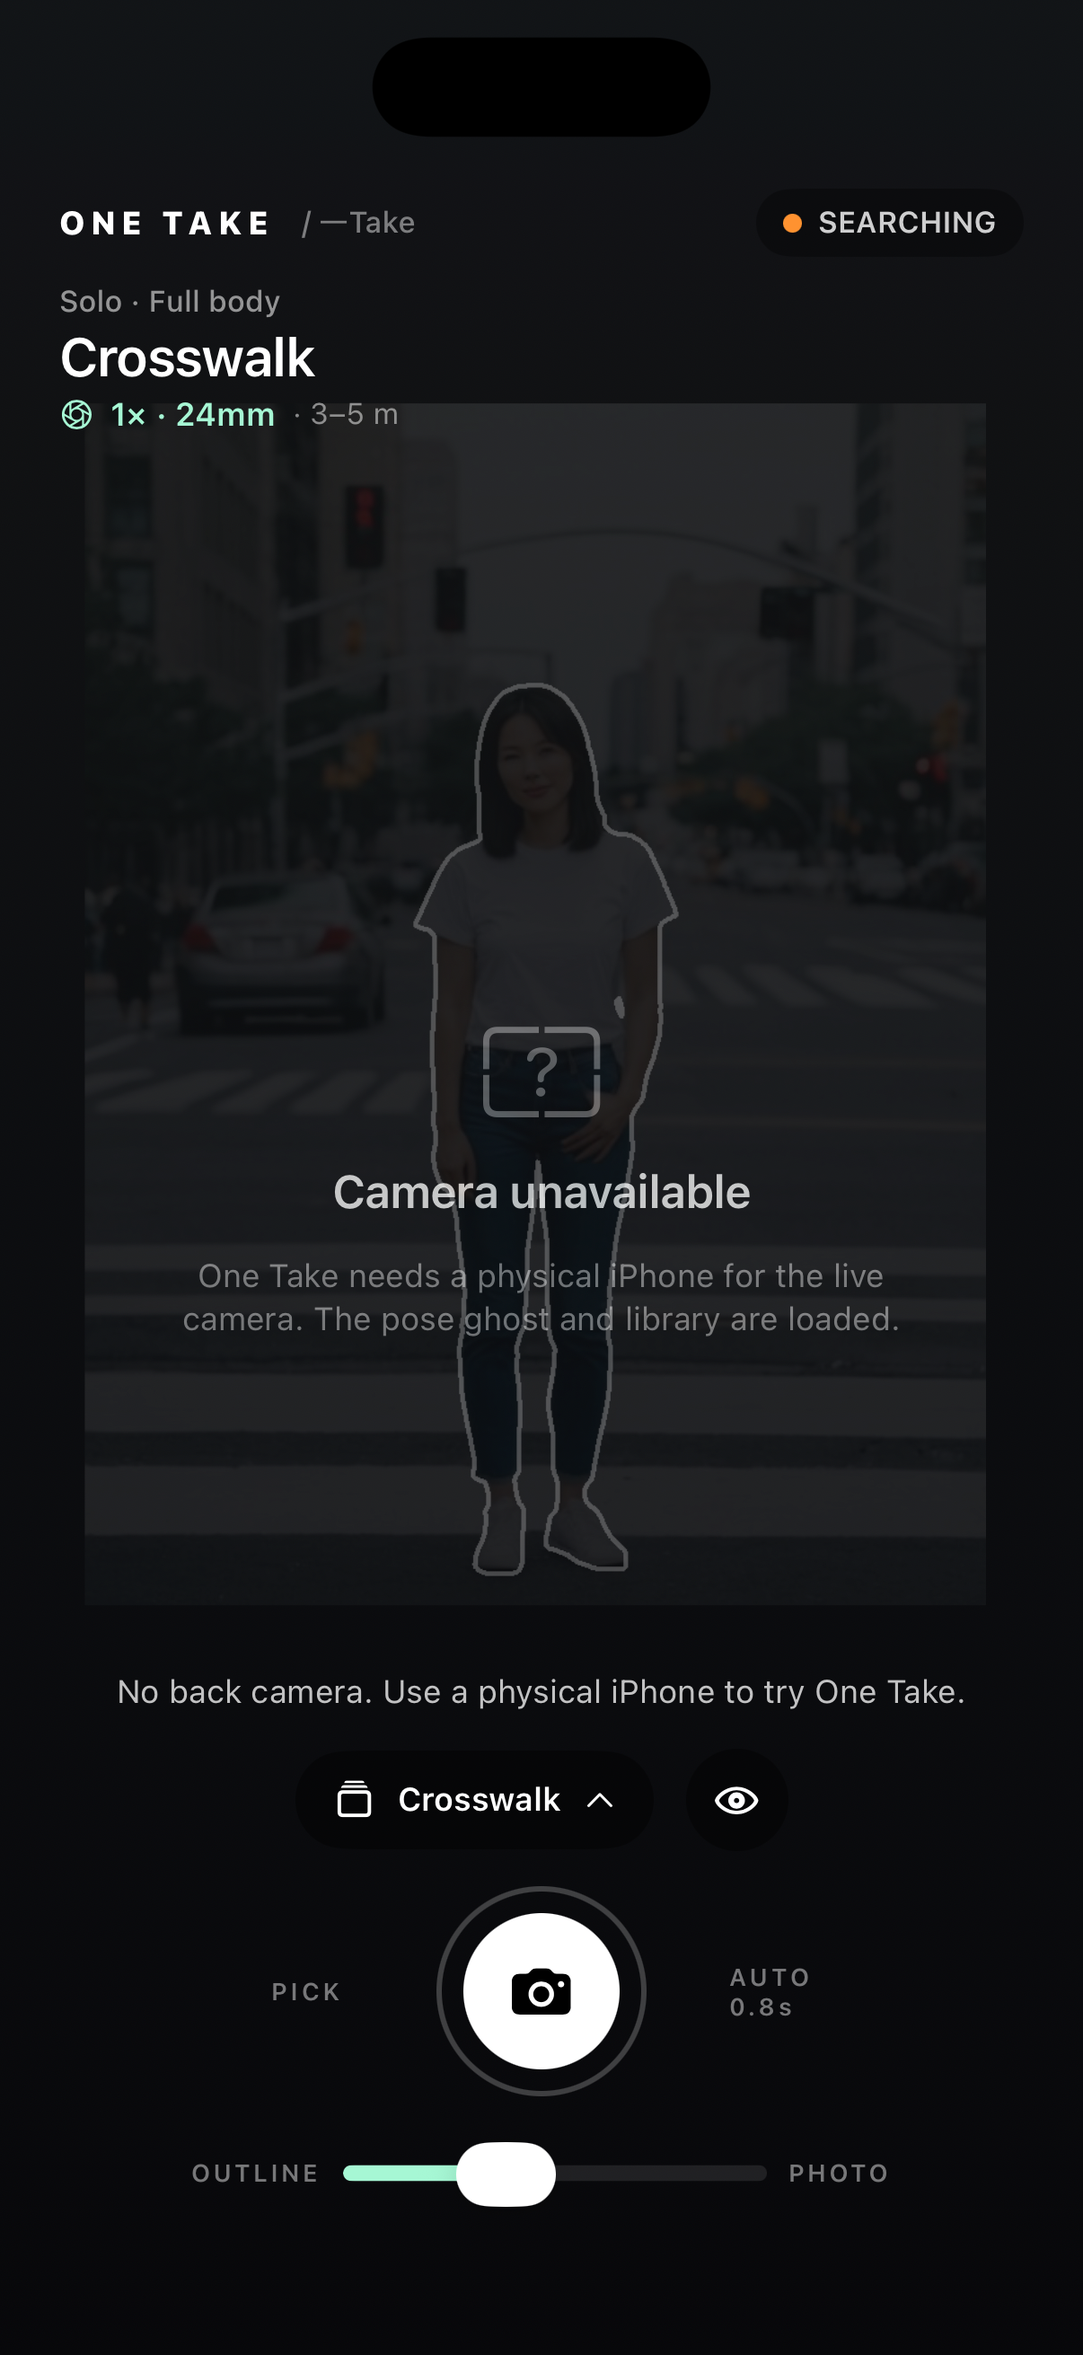
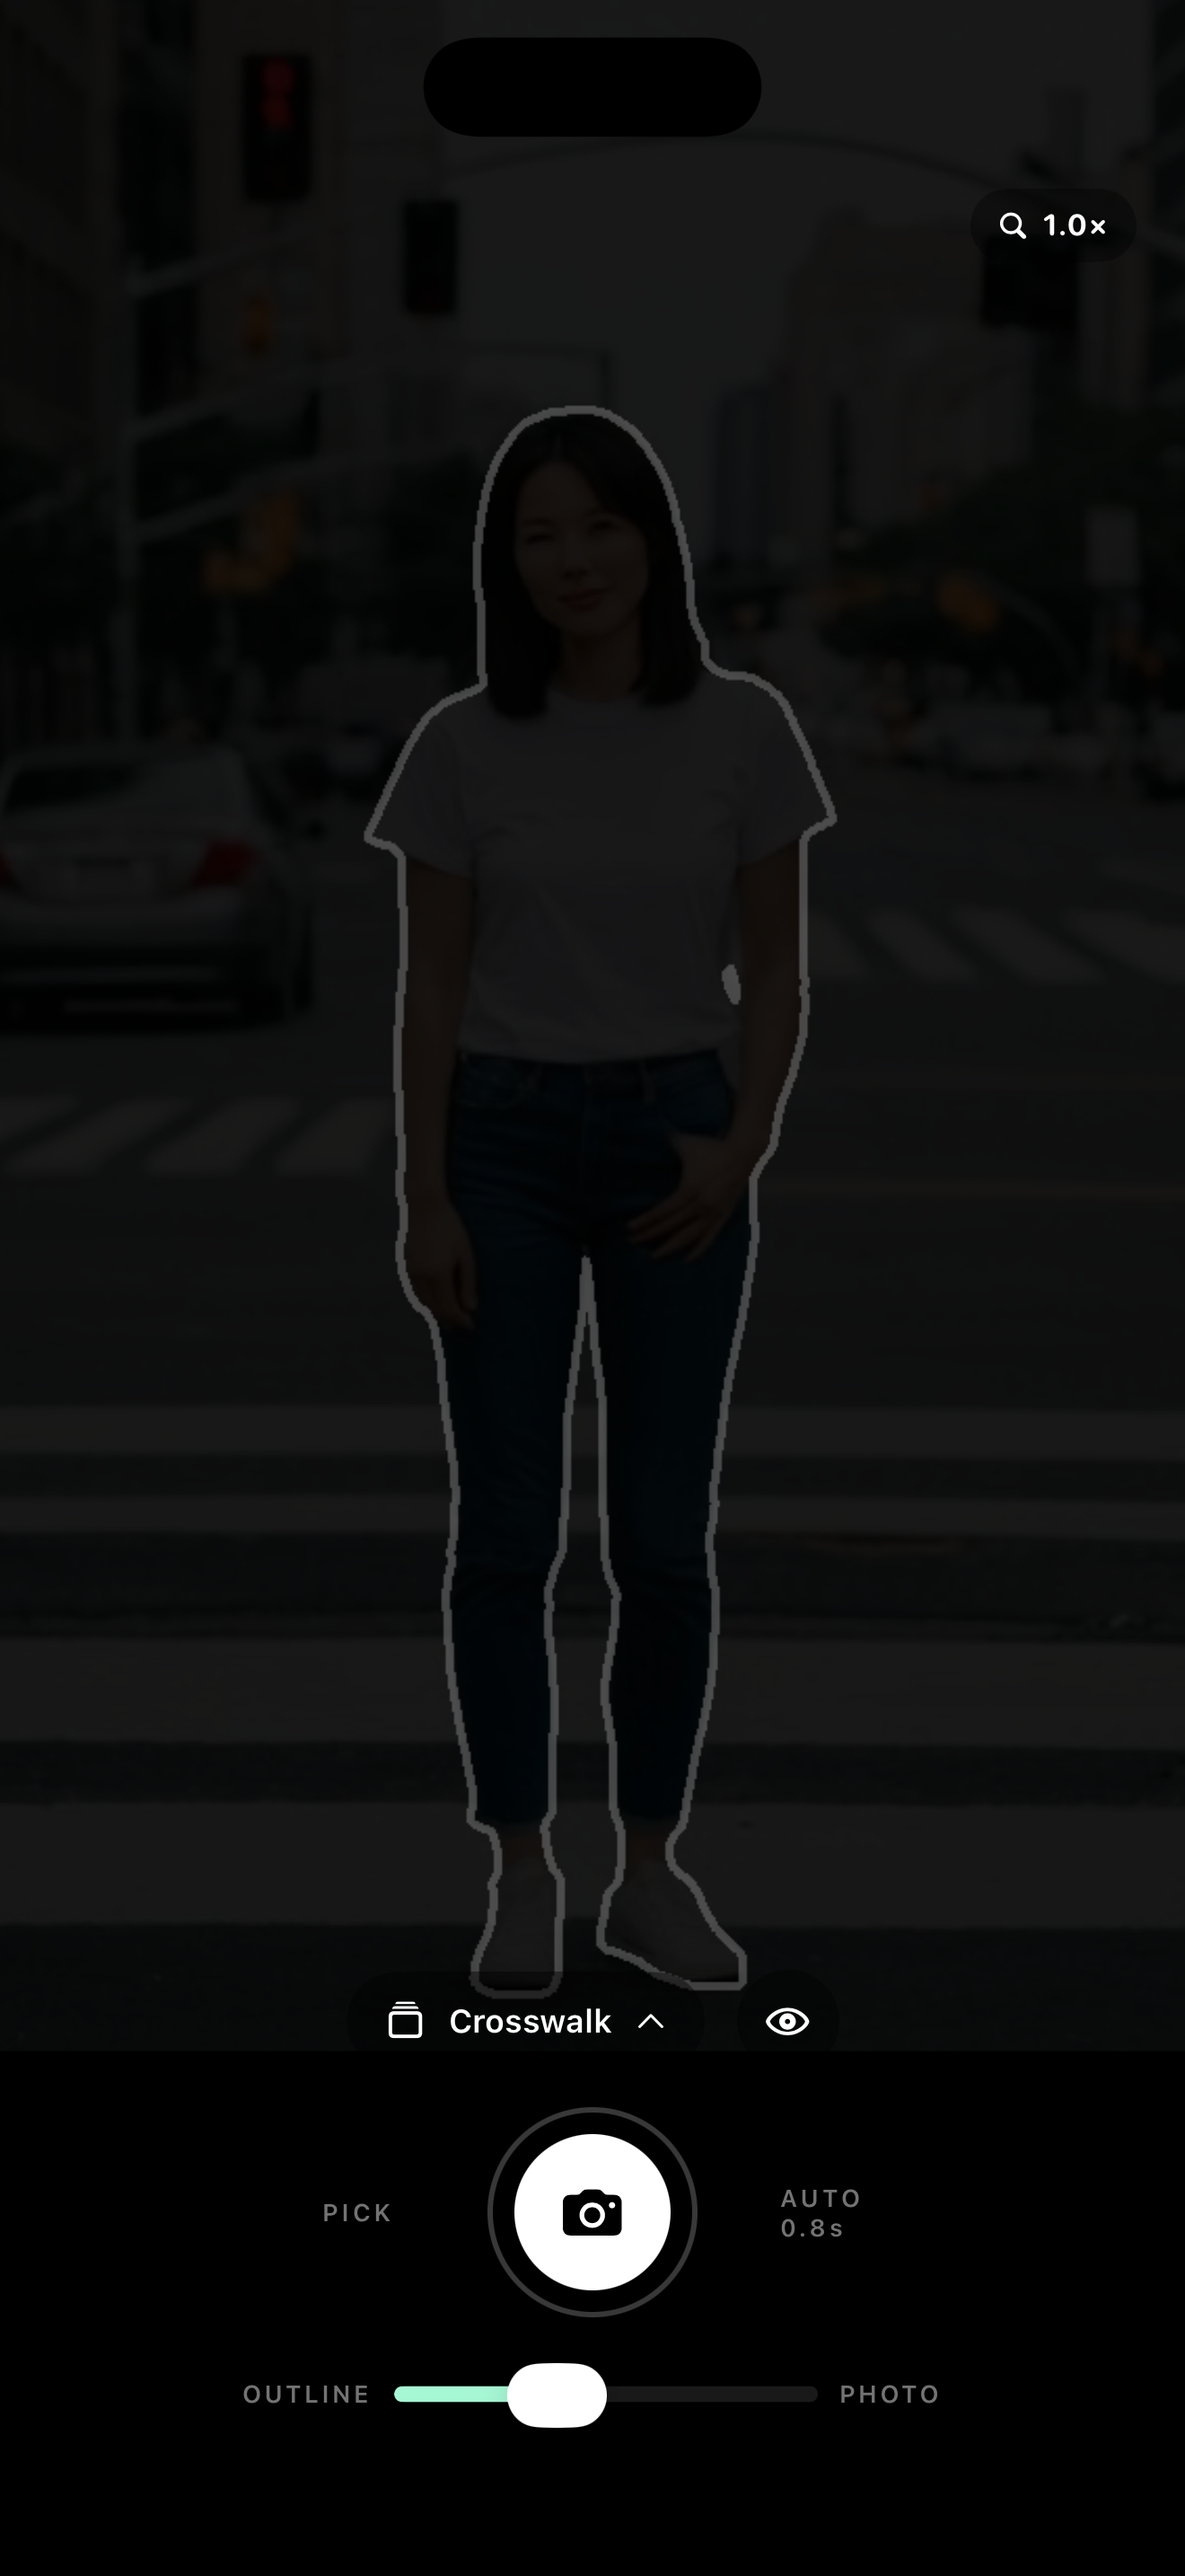
Update site with full-bleed camera and photo picker

diff --git a/index.html b/index.html
@@ -54,8 +54,8 @@ section{padding:56px 0;border-top:1px solid var(--line)}h2{font-size:13px;letter
 <section>
   <h2>See the difference</h2>
   <div class="shots">
-    <img src="assets/overlay-samples.jpg" alt="Pose overlay examples">
     <img src="assets/app-screen.png" alt="One Take camera screen with live outline">
+    <img src="assets/pose-picker.png" alt="One Take pose picker with photo references">
   </div>
   <p class="note">Reference photos are used only inside the app to generate your ghost overlay.</p>
 </section>
